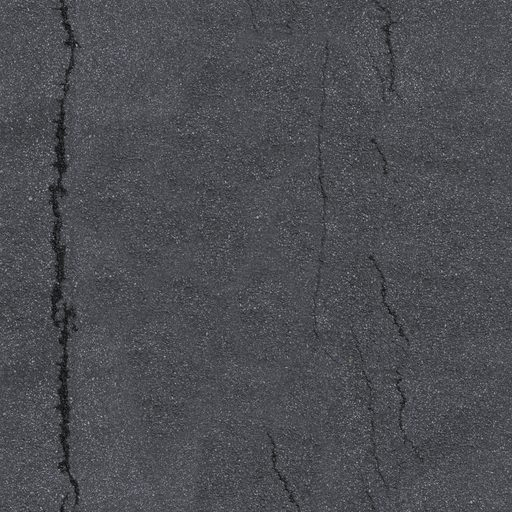
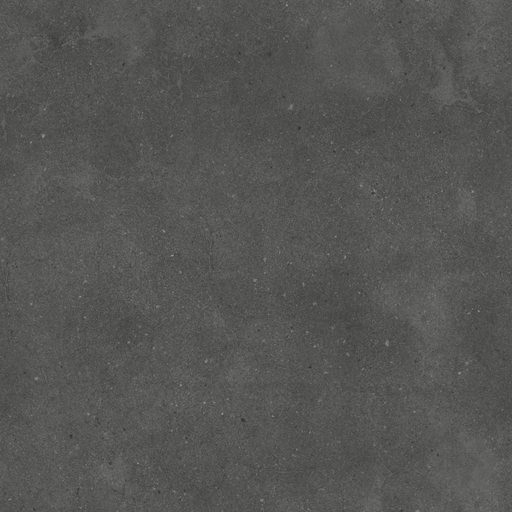
Asfalto: scelta di Carlo (Poly Haven asphalt_04, tono 0.65 cotto in tex/asfalto.jpg) e toppe lungo la strada
Tolti asfalto_1/_3 e &asfalto=; &asftono=N resta come prova. Poly Haven asphalt_04, CC0, 4,04 m dichiarati. La direzione della strada (asse dei lati dei poligoni d asfalto, pesato per lunghezza e distanza) va nel colore dei vertici di asp (pezzi su S) e delle celle intere di S (asphS); lo shader la legge, non la moltiplica. Le toppe hanno il lato lungo lungo la via; dove la direzione non e nota non ci sono. Fasce delle ruote non fatte: servirebbe la posizione delle corsie.

Changed region(s): [[0.0, 0.0, 1.0, 1.0]]

diff --git a/src/world3.js b/src/world3.js
@@ -750,6 +750,27 @@ function terrDrawnH(x, z) { // the terrain patch as drawn: visH on its tile's gr
 // ---- surfaces on the grid of S (docs/motore.md 3, phase 5): polyFill and mkMesh hand their draped polygons and triangles here
 // a polygon y over the ground, cut on the cells of S (H.clipPoly); false where no tile of S is under it, and polyFill drapes it the old way.
 // Its vertices are absolute (b.ab), mkMesh leaves them alone; a piece over a tile without .bin stays relative and drapes as before
+/* direction of the road, for the details of the asphalt (patches along the road): the axis of the edges of the asphalt polygons of the tile, each
+   weighted by its length over the squared distance to it (+ 8 m, so the notches of the bays and the little ends cancel and the long sides count).
+   Edges in a grid of 32 m; the answer is cos 2a and sin 2a (axis, doubled angle) as a colour, 0 = unknown: the shader of MAT.asph and MAT.asphS reads it and
+   does not multiply it in. The pieces on S (clipFill) and the whole cells of S (terrain of buildTileGen) ask the same field, so no seam between them */
+function asfGrid(T) {
+  if (T.asfG) return T.asfG; const B = 32, K = (i, j) => (i + 4096) * 8192 + (j + 4096), g = new Map(); T.asfG = g; g.B = B; g.K = K;
+  for (const q of T.d.as || []) for (const r of [dec(q.p), ...q.k.map(dec)]) for (let i = 0; i < r.length; i++) {
+    const a = r[i], c = r[(i + 1) % r.length], L = hyp(c[0] - a[0], c[1] - a[1]); if (L < 0.5) continue; const e = [a[0], a[1], c[0], c[1], L, (c[0] - a[0]) / L, (c[1] - a[1]) / L], n = Math.ceil(L / 16);
+    let last = -1; for (let k = 0; k <= n; k++) { const key = K(Math.floor((a[0] + (c[0] - a[0]) * k / n) / B), Math.floor((a[1] + (c[1] - a[1]) * k / n) / B)); if (key === last) continue; last = key; let l = g.get(key); if (!l) g.set(key, l = []); if (l[l.length - 1] !== e) l.push(e); }
+  }
+  return g;
+}
+const ASF_NO = { r: 0, g: 0, b: 0 };
+function asfCol(g, x, z) {
+  const B = g.B, ix = Math.floor(x / B), iz = Math.floor(z / B); let sx = 0, sz = 0;
+  for (let j = -1; j <= 1; j++) for (let i = -1; i <= 1; i++) {
+    const l = g.get(g.K(ix + i, iz + j)); if (!l) continue;
+    for (const [ax, az, bx, bz, L, dx, dz] of l) { const t = Math.max(0, Math.min(1, ((x - ax) * dx + (z - az) * dz) / L)), d = hyp(ax + (bx - ax) * t - x, az + (bz - az) * t - z), w = L / ((d + 8) * (d + 8)); sx += w * (dx * dx - dz * dz); sz += w * 2 * dx * dz; }
+  }
+  const l = hyp(sx, sz); return l > 1e-9 ? { r: 0.5 + 0.5 * sx / l, g: 0.5 + 0.5 * sz / l, b: 1 } : ASF_NO;
+}
 /* angle of the long side of the paving blocks to the kerb: 0 = along it, Math.PI / 2 = across it (from the kerb towards the wall); the one number to turn them */
 const PAVER_ROT = Math.PI / 2;
 function clipFill(b, outer, holes, y, vScale, col) {
@@ -767,7 +788,12 @@ function clipFill(b, outer, holes, y, vScale, col) {
       let sx = 0, sz = 0; for (const [x, z, L, dx, dz] of sg) { const d = hyp(x - mx, z - mz), w = L / ((d + 1) * (d + 1)); sx += w * (dx * dx - dz * dz); sz += w * 2 * dx * dz; }
       const th = Math.round(Math.atan2(sz, sx) / 2 / 0.0349) * 0.0349 + PAVER_ROT; co = Math.cos(th) / vScale; si = Math.sin(th) / vScale;
     }
-    for (let k = 0; k < P.length; k++) { const x = P[k][0], z = P[k][1]; let yy = y; if (fine) { yy += b.free ? H.overFree(x, z, P[k][2]) : P[k][2]; ab[i0 + k] = 1; } vtx(b, x, yy, z, 0, 1, 0, x * co + z * si, -x * si + z * co, col); }
+    for (let k = 0; k < P.length; k++) {
+      const x = P[k][0], z = P[k][1]; let yy = y, cc = col;
+      if (fine) { yy += b.free ? H.overFree(x, z, P[k][2]) : P[k][2]; ab[i0 + k] = 1; }
+      if (b.asf) cc = asfCol(b.asf, x, z); /* asphalt: the direction of the road in the colour (asfCol) */
+      vtx(b, x, yy, z, 0, 1, 0, x * co + z * si, -x * si + z * co, cc);
+    }
     for (let k = 1; k < P.length - 1; k++) triUp(b, i0, i0 + k, i0 + k + 1);
   }, b.rk, b.street);
 }
@@ -1242,7 +1268,8 @@ function* buildTileGen(T) {
       // triangle: built that way this slice took 40-60 ms in the town centre (a stutter while driving), now about as long as the bare terrain
       const sy = FT.sty[w]; let B = byStyle.get(sy); if (!B) byStyle.set(sy, B = { b: Buf(), sy, k: byStyle.size + 1 });
       if (tri & 1) { T.cellIdx[w] = B.b.i.length; T.cellMesh[w] = B.k; } const i0 = B.b.p.length / 3, vs = sy.vs;
-      vtx(B.b, ax, ay, az, 0, 1, 0, ax / vs, az / vs, sy.col); vtx(B.b, bx, by, bz, 0, 1, 0, bx / vs, bz / vs, sy.col); vtx(B.b, cx, cy, cz, 0, 1, 0, cx / vs, cz / vs, sy.col); triUp(B.b, i0, i0 + 1, i0 + 2);
+      const asf = sy.m === MAT.asphS ? asfGrid(T) : null; /* asphalt: the direction of the road at each corner (asfCol) in place of a colour */
+      vtx(B.b, ax, ay, az, 0, 1, 0, ax / vs, az / vs, asf ? asfCol(asf, ax, az) : sy.col); vtx(B.b, bx, by, bz, 0, 1, 0, bx / vs, bz / vs, asf ? asfCol(asf, bx, bz) : sy.col); vtx(B.b, cx, cy, cz, 0, 1, 0, cx / vs, cz / vs, asf ? asfCol(asf, cx, cz) : sy.col); triUp(B.b, i0, i0 + 1, i0 + 2);
     });
     { const s_ = srndT; yield 'terrain 2'; srndT = s_; } for (const { b, sy } of byStyle.values()) T.ownMeshes.push(mkMesh(b, sy.m, -2, false, G));
     { const s_ = srndT; yield 'terrain 3'; srndT = s_; }
@@ -1384,7 +1411,7 @@ function* buildTileGen(T) {
   yield 'streets';
   // street surfaces
   {
-    const asp = FBuf(), por = FBuf(), foot = FBuf(), sw = FBuf(), kerb = FBuf(), mark = FBuf(), white = COL('#f1efe6'); asp.rk = 5; por.rk = 5.1; foot.rk = 3; sw.orient = true; asp.street = por.street = foot.street = sw.street = mark.street = true; // street paint: none on the cells under a deck where S is no street (H.ud)
+    const asp = FBuf(), por = FBuf(), foot = FBuf(), sw = FBuf(), kerb = FBuf(), mark = FBuf(), white = COL('#f1efe6'); asp.rk = 5; asp.angc = true; asp.asf = asfGrid(T); por.rk = 5.1; foot.rk = 3; sw.orient = true; asp.street = por.street = foot.street = sw.street = mark.street = true; // street paint: none on the cells under a deck where S is no street (H.ud)
     const fill = (list, b, y, sc) => { for (const q of list || []) { try { polyFill(b, dec(q.p), q.k.map(dec), y, sc); } catch (e) { } } };
     const fy = T.fine ? 0 : 1, kerbS = Buf(); // in a tile of S: on it, and the kerbs cut on its cells (kerbRing)
     fill(d.as, asp, 0.06 * fy, 9); { const s_ = srndT; yield 'streets 2'; srndT = s_; } fill(d.pz, por, 0.06 * fy, 4); fill(d.ft, foot, 0.045 * fy, 4);

diff --git a/src/foto3.js b/src/foto3.js
@@ -3,9 +3,9 @@
 // (tex/*.jpg, made from the originals by the script in the commit): same palette, real asphalt cracks, blades of grass, paving joints.
 // The texture object stays the same, so every material using it follows; repeat turns the UV scale the surface was drawn with
 // (metres per repeat) into the size of the photo (metres)
-/* asfalto: three candidate photos (all CC0), chosen in the link with &asfalto=1|2|3 (default 1); metres a photo covers: 1 ambientCG Asphalt015 and 3 Asphalt031
-   (the site declares no size: 2 m assumed), 2 Poly Haven asphalt_04 (4.04 m declared). &asfsh=0 turns the asphalt details off (for the cost measure) */
-const ASF_N = (/[?&]asfalto=([123])/.exec(location.search) || [0, '1'])[1], ASF_FILE = 'asfalto_' + ASF_N, ASF_M = [0, 2, 4.04, 2][+ASF_N];
+/* asfalto: Poly Haven asphalt_04 (CC0, 4.04 m declared), recoloured to the pale grey of the photo of via Yuri Gagarin and darkened by 0.65 (linear), baked in tex/asfalto.jpg.
+   &asftono=N multiplies the brightness on top (test only, default 1); &asfsh=0 turns the asphalt details off */
+const ASF_FILE = 'asfalto', ASF_M = 4.04;
 const ASF_U = { value: /[?&]asfsh=0/.test(location.search) ? 0 : 1 }; window.__ASFU = ASF_U;
 const ASF_T = { value: +((/[?&]asftono=([0-9.]+)/.exec(location.search) || [0, '1'])[1]) || 1 }; /* &asftono=N: multiplier of the asphalt brightness (default 1) */
 const FOTO_TEX = [[asphaltTex, 'asfalto', 9 / 3], [grassTex, 'prato', 9 / 2], [groundTex, 'terreno', 10 / 2], [sidewalkTex, 'marciapiede', 4 / 2], [porfidoTex, 'porfido', 4 / 1], [ciottoliTex, 'ciottoli', 4 / 4]];
@@ -212,6 +212,10 @@ const ASF_FRAG = `
     texelColor = vec4(tc, 1.);
   }
   texelColor = mapTexelToLinear(texelColor);
+  vec2 rd = vec2(1., 0.); float hasDir = 0.;
+#if defined( ASF_DIR ) && defined( USE_COLOR )
+  { vec2 q = vColor.rg * 2. - 1.; float lq = length(q); if (vColor.b > .5 && lq > .25) { float th = .5 * atan(q.y, q.x); rd = vec2(cos(th), sin(th)); hasDir = 1.; } }
+#endif
   if (uAsf > .5) {
     vec2 P = vWp.xz; float px = max(length(dFdx(P)), length(dFdy(P))) + 1e-4;
     float far = 1. - smoothstep(.12, .4, px); /* cracks fade out when a pixel is wider than 12-40 cm */
@@ -229,17 +233,21 @@ const ASF_FRAG = `
       texelColor.rgb = mix(texelColor.rgb, texelColor.rgb * .22, cr * .9); }
     /* patches */
     { vec2 gc = floor(P / 16.), lp = P - gc * 16.; vec2 r1 = h22(gc + 21.), r2 = h22(gc + 33.), r3 = h22(gc + 45.);
-      if (r3.x < .22) {
-        vec2 cen = 4. + 8. * r1, hs = (.5 + 1.5 * r2) * vec2(1., .5 + r3.y); float a = (r2.x - .5) * .8 + 1.5708 * floor(r1.x * 2.), ca = cos(a), sa = sin(a);
-        vec2 d = lp - cen; vec2 e = abs(vec2(ca * d.x + sa * d.y, -sa * d.x + ca * d.y)) - hs;
+      if (r3.x < .22 && hasDir > .5) {
+        vec2 cen = 4. + 8. * r1, hs = vec2(.75 + 1.25 * r2.x, .5 + .5 * r2.y); /* half sides: the long one (1.5-4 m) along the road, the short one (1-2 m) across */
+        vec2 d = lp - cen; vec2 e = abs(vec2(dot(d, rd), dot(d, vec2(-rd.y, rd.x)))) - hs;
         float m = (1. - smoothstep(-px, px + .01, max(e.x, e.y))) * far;
         float g = dot(texelColor.rgb, vec3(.3, .59, .11));
         texelColor.rgb = mix(texelColor.rgb, vec3(g) * .5 * (.85 + .3 * r3.y), m * .9); } }
   }
   texelColor.rgb *= uAsT;
   diffuseColor *= texelColor;`;
-const ASF_PATCH = s => {
+/* dir: the colour of the mesh is the direction of the road (cos 2a, sin 2a, 1; asp buffer of world3.js), not a tint: it is read, and not multiplied in */
+const ASF_PATCH = dir => s => {
   VAR_VERT(s); s.uniforms.uAsf = ASF_U; s.uniforms.uAsT = ASF_T;
-  s.fragmentShader = ASF_GLSL + VAR_GLSL + s.fragmentShader.replace('#include <map_fragment>', ASF_FRAG);
+  let f = s.fragmentShader.replace('#include <map_fragment>', ASF_FRAG);
+  if (dir) f = '#define ASF_DIR\n' + f.replace('#include <color_fragment>', '');
+  s.fragmentShader = ASF_GLSL + VAR_GLSL + f;
 };
-for (const k of ['asph', 'asphS', 'paved', 'pavedS', 'deck']) { MAT[k].onBeforeCompile = ASF_PATCH; MAT[k].customProgramCacheKey = () => 'asfalto-var'; MAT[k].needsUpdate = true; }
+MAT.asph.vertexColors = true; MAT.asphS.vertexColors = true;
+for (const k of ['asph', 'asphS', 'paved', 'pavedS', 'deck']) { MAT[k].onBeforeCompile = ASF_PATCH(k === 'asph' || k === 'asphS'); MAT[k].customProgramCacheKey = () => 'asfalto-var' + (k === 'asph' || k === 'asphS' ? '-dir' : ''); MAT[k].needsUpdate = true; }

diff --git a/src/game.src.html b/src/game.src.html
@@ -232,7 +232,7 @@ scene.add(sun, sun.target);
 
 // ---------------------------------------------------------------- geometry buffers
 const Buf = () => ({ p: [], n: [], uv: [], c: [], i: [] });
-function vtx(b, x, y, z, nx, ny, nz, u, v, col) { b.p.push(x, y, z); b.n.push(nx, ny, nz); b.uv.push(u, v); if (col) b.c.push(col.r, col.g, col.b); return b.p.length / 3 - 1; }
+function vtx(b, x, y, z, nx, ny, nz, u, v, col) { b.p.push(x, y, z); b.n.push(nx, ny, nz); b.uv.push(u, v); if (col) b.c.push(col.r, col.g, col.b); else if (b.angc) b.c.push(0, 0, 0); /* b.angc (asphalt): the colour carries the direction of the road, 0 = unknown */ return b.p.length / 3 - 1; }
 function triUp(b, i, j, k) {
   const P = b.p; const ax = P[i * 3], az = P[i * 3 + 2];
   const cy = (P[j * 3 + 2] - az) * (P[k * 3] - ax) - (P[j * 3] - ax) * (P[k * 3 + 2] - az);
